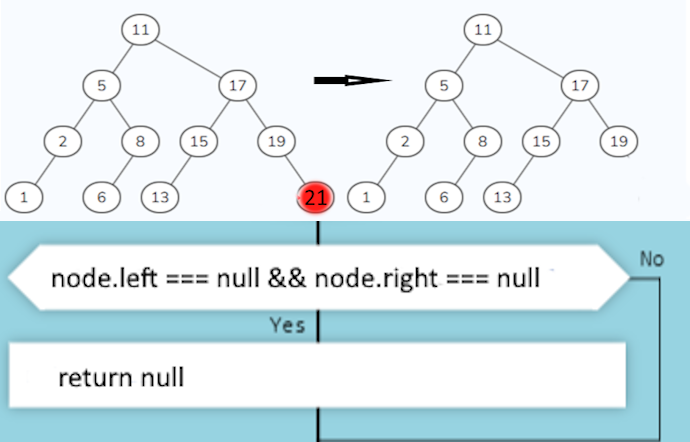
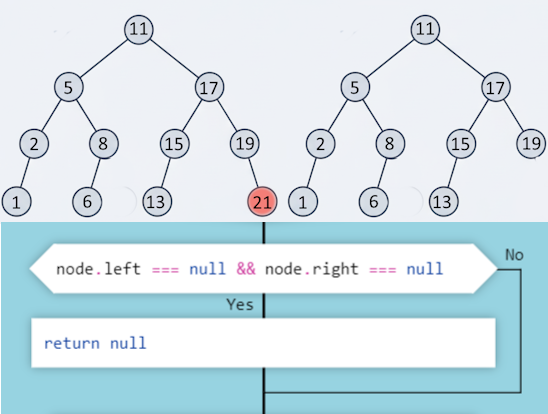
Replace images files 6, 7, 8, 9

diff --git a/docs-src/modules/section-8/attachments/TreeGenerator/generateTreeAuto.js b/docs-src/modules/section-8/attachments/TreeGenerator/generateTreeAuto.js
@@ -1,0 +1,118 @@
+const fs = require("fs");
+
+// ------------------------------
+// 🎨 1. НАСТРОЙКИ ВНЕШНЕГО ВИДА
+// ------------------------------
+const STYLE = {
+  radius: 6,
+  fontSize: 6,
+  levelGap: 25,
+  strokeWidth: 1,
+  nodeColor: "#f1f7f6ff",
+  textColor: "black"
+};
+
+// ------------------------------
+// 🌲 2. ДАННЫЕ ДЕРЕВА
+// ------------------------------
+const tree = {
+  value: 11,
+  left: {
+    value: 5,
+    left: { value: 2, left: { value: 1 }, right: null },
+    right: { value: 6, left: null, right: { value: 8 } }
+  },
+  right: {
+    value: 17,
+    left: { value: 15, left: { value: 13 }, right: null },
+    right: { value: 19, right: { value: 21 } }
+  }
+};
+
+// ------------------------------
+// ⚙ 3. РАСЧЁТ КООРДИНАТ (УЛУЧШЕННЫЙ)
+// ------------------------------
+function calculatePositions(node, depth, pos, positions) {
+  if (!node) return;
+  
+  if (node.left) {
+    calculatePositions(node.left, depth + 1, pos - Math.pow(2, 5 - depth), positions);
+  }
+  
+  positions.push({ node, x: pos, y: depth * STYLE.levelGap + 50 });
+  
+  if (node.right) {
+    calculatePositions(node.right, depth + 1, pos + Math.pow(2, 5 - depth), positions);
+  }
+}
+
+// ------------------------------
+// 🧩 4. ГЕНЕРАЦИЯ SVG
+// ------------------------------
+function generateSVG(positions) {
+  let elements = [];
+  
+  // Сначала рисуем линии
+  positions.forEach(item => {
+    const node = item.node;
+    if (node.left) {
+      const leftPos = positions.find(p => p.node === node.left);
+      if (leftPos) {
+        elements.push(
+          `<line x1="${item.x}" y1="${item.y}" x2="${leftPos.x}" y2="${leftPos.y}" stroke="black" stroke-width="${STYLE.strokeWidth}" />`
+        );
+      }
+    }
+    if (node.right) {
+      const rightPos = positions.find(p => p.node === node.right);
+      if (rightPos) {
+        elements.push(
+          `<line x1="${item.x}" y1="${item.y}" x2="${rightPos.x}" y2="${rightPos.y}" stroke="black" stroke-width="${STYLE.strokeWidth}" />`
+        );
+      }
+    }
+  });
+  
+  // Затем рисуем узлы поверх линий
+  positions.forEach(item => {
+    elements.push(
+      `<circle cx="${item.x}" cy="${item.y}" r="${STYLE.radius}" fill="${STYLE.nodeColor}" stroke="black" stroke-width="1" />`
+    );
+    elements.push(
+      `<text x="${item.x}" y="${item.y + STYLE.fontSize / 3}" text-anchor="middle" fill="${STYLE.textColor}" font-size="${STYLE.fontSize}" font-family="Arial">${item.node.value}</text>`
+    );
+  });
+
+  // Находим границы для установки правильных размеров SVG
+  const xs = positions.map(p => p.x);
+  const ys = positions.map(p => p.y);
+  const minX = Math.min(...xs);
+  const maxX = Math.max(...xs);
+  const minY = Math.min(...ys);
+  const maxY = Math.max(...ys);
+  
+  const padding = 50;
+  const width = maxX - minX + 2 * padding;
+  const height = maxY - minY + 2 * padding;
+  
+  // Смещаем все элементы
+  const transformedElements = elements.map(element => 
+    element.replace(/(x1|x2|cx|x)="([^"]*)"/g, (match, attr, value) => 
+      `${attr}="${parseFloat(value) - minX + padding}"`)
+      .replace(/(y1|y2|cy|y)="([^"]*)"/g, (match, attr, value) => 
+        `${attr}="${parseFloat(value) - minY + padding}"`)
+  );
+
+  return `<svg xmlns="http://www.w3.org/2000/svg" width="${width}" height="${height}" style="background:#f8f9fa">
+${transformedElements.join("\n")}
+</svg>`;
+}
+
+// ------------------------------
+// 🚀 5. ВЫПОЛНЕНИЕ
+// ------------------------------
+const positions = [];
+calculatePositions(tree, 0, 0, positions);
+const svg = generateSVG(positions);
+fs.writeFileSync("tree.svg", svg);
+console.log("✅ Файл tree.svg успешно создан!");

diff --git a/docs-src/modules/section-8/attachments/TreeGenerator/treeData.js b/docs-src/modules/section-8/attachments/TreeGenerator/treeData.js
@@ -1,0 +1,26 @@
+module.exports = {
+  value: 11,
+  left: {
+    value: 5,
+    left: {
+      value: 2,
+      left: { value: 1 }      // новый левый потомок для узла 2
+    },
+    right: {
+      value: 6,
+      right: { value: 8 }     // новый правый потомок для узла 6
+    }
+  },
+  right: {
+    value: 17,
+    left: {
+      value: 15,
+      left: { value: 13 }     // новый левый потомок для узла 15
+    },
+    right: {
+      value: 19,
+      right: { value: 21 }    // новый правый потомок для узла 19
+    }
+  }
+};
+
